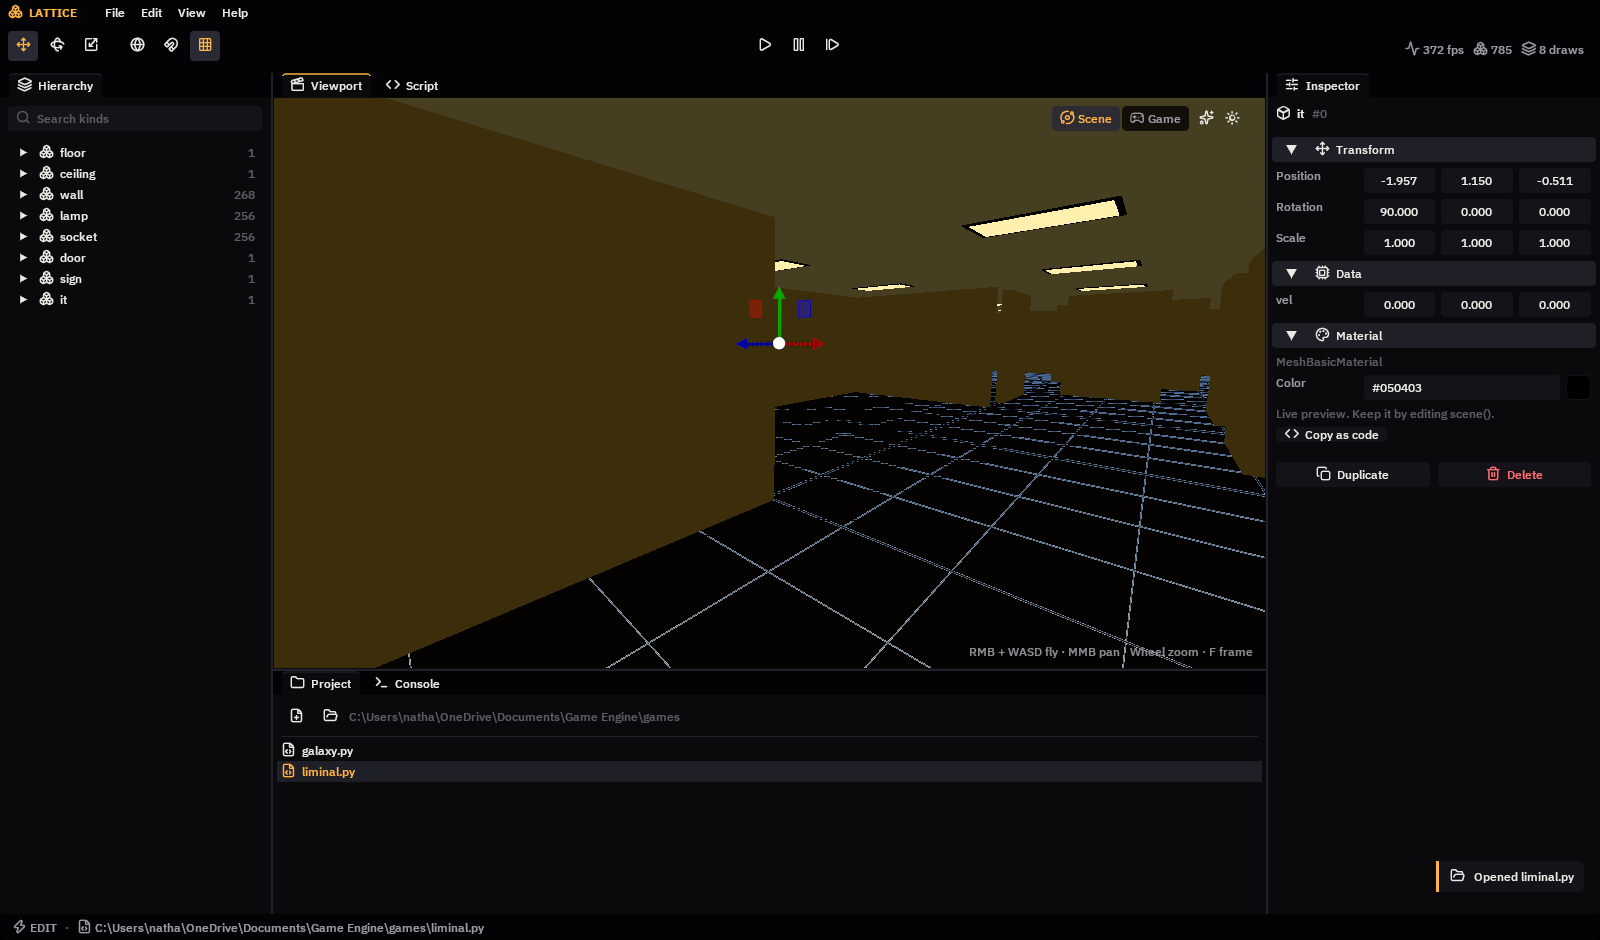
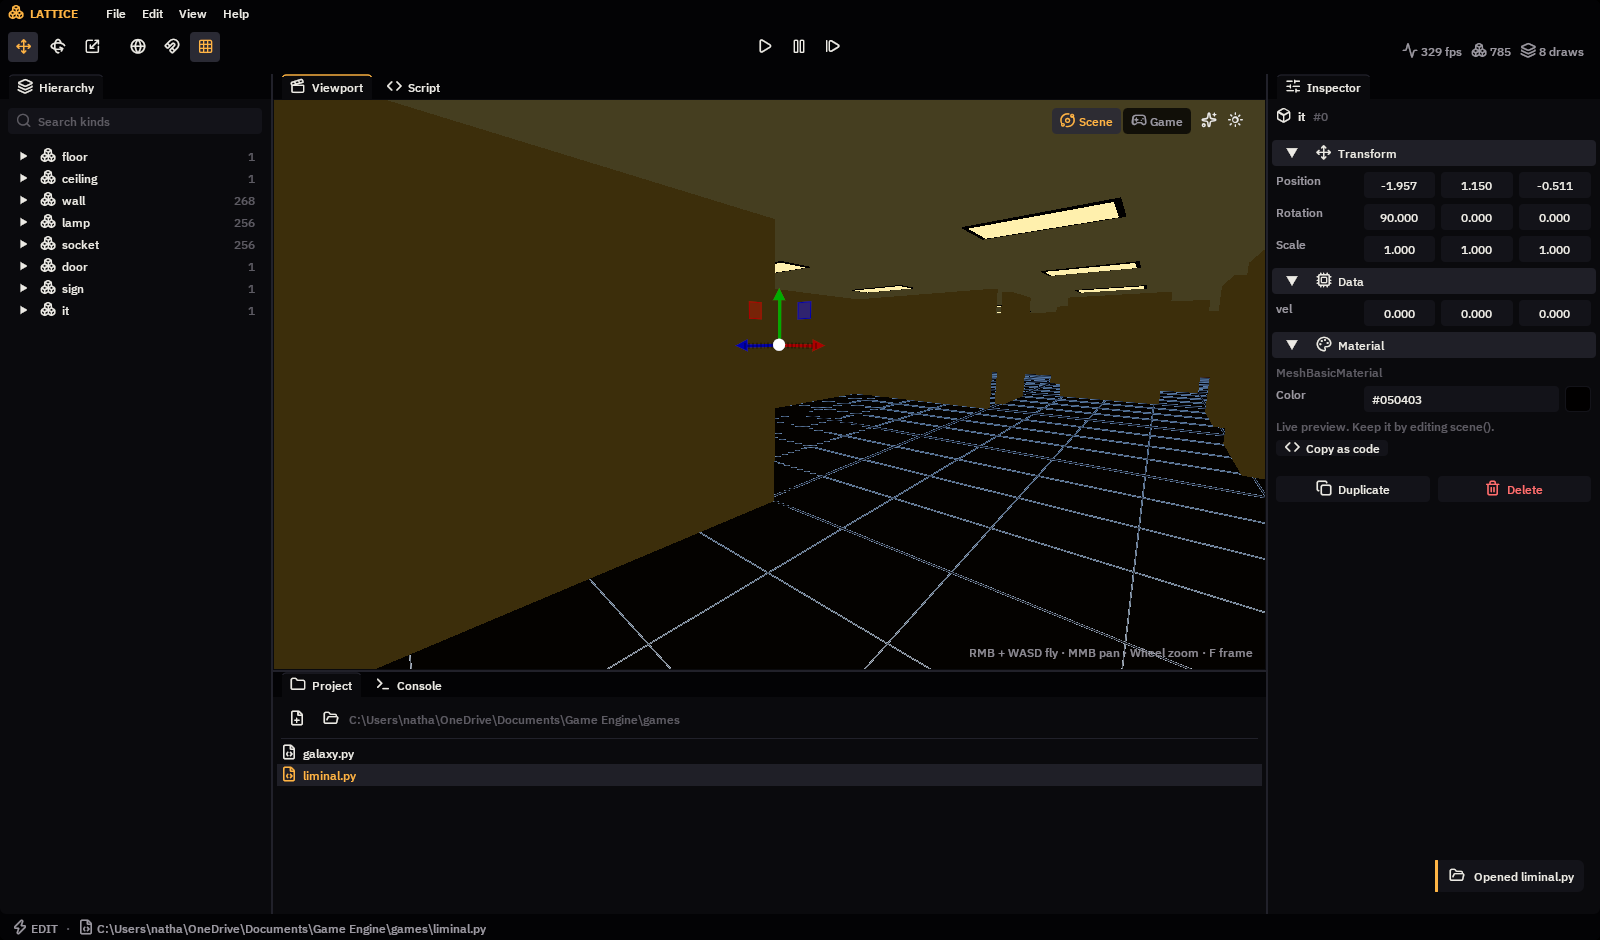
Smoother window resizing: debounce viewport target rebuilds, theme the Win32 title bar and background

diff --git a/src/lattice/editor/__init__.py b/src/lattice/editor/__init__.py
@@ -16,6 +16,7 @@ from imgui_bundle import portable_file_dialogs as pfd
 from wgpu.utils.imgui import ImguiRenderer
 
 from .. import icons as I
+from ..app import style_window
 from ..runtime import Runtime
 from . import theme
 from .theme import Fonts, hex4
@@ -94,6 +95,7 @@ class Editor:
             from rendercanvas.glfw import RenderCanvas
         self.snapshot = snapshot
         self.canvas = RenderCanvas(size=(1600, 940), title="Lattice", update_mode="continuous", max_fps=144)
+        style_window(self.canvas)
         self.gui = ImguiRenderer(gfx.renderers.wgpu.get_shared().device, self.canvas)
         HOME.mkdir(exist_ok=True)
         imgui.get_io().set_ini_filename(str(HOME / "layout.ini"))
@@ -416,10 +418,16 @@ class Editor:
     # ------------------------------------------------------------------ viewport
     LOOK = ("pixel_ratio", "pixel_filter", "ppaa", "effect_passes")
 
-    def ensure_target(self, size):
-        """One render target per view: Game is exactly what players see, Scene is a clean, lit editing view."""
-        size = (max(int(size[0]), 16), max(int(size[1]), 16))
+    def ensure_target(self, size, settle=0.12):
+        """One render target per view: Game is exactly what players see, Scene is a clean, lit editing view.
+
+        While the window is being resized the last frame is stretched; targets are rebuilt once the size settles."""
+        size, now = (max(int(size[0]), 16), max(int(size[1]), 16)), time.perf_counter()
         if size == self.size:
+            return
+        if self.renderer and not self.snapshot and (size != getattr(self, "_pending", None) or now - self._pending_t < settle):
+            if size != getattr(self, "_pending", None):
+                self._pending, self._pending_t = size, now
             return
         old, self.size = self.renderer, size
         self.targets = {v: gfx.Texture(dim=2, size=(*size, 1), format="rgba8unorm") for v in ("scene", "game")}
@@ -463,7 +471,7 @@ class Editor:
             ambient.intensity = game_ambient
             if self.view not in self.texs:
                 self.texs[self.view] = self.gui.backend.register_texture(self.targets[self.view]._wgpu_default_view)
-            imgui.image(self.texs[self.view], imgui.ImVec2(*self.size))
+            imgui.image(self.texs[self.view], imgui.get_content_region_avail())
             self.viewport_hovered = imgui.is_item_hovered()
             self.viewport_focused = self.viewport_hovered or imgui.is_window_focused()
             if scene_view:

diff --git a/src/lattice/app.py b/src/lattice/app.py
@@ -1,11 +1,26 @@
 """Command line: ``lattice`` opens the editor, ``lattice play game.py`` runs a game in a plain window."""
 
 import argparse
+import os
 import time
 
 import pygfx as gfx
 
 from .runtime import Runtime
+
+
+def style_window(canvas, color=0x0D0B0B):
+    """Windows 11: tint the title bar and border to the theme, and paint exposed areas black instead of white."""
+    if os.name != "nt" or not (window := getattr(canvas, "_window", None)):
+        return
+    import ctypes
+
+    import glfw
+
+    hwnd, dwm, c = glfw.get_win32_window(window), ctypes.windll.dwmapi, ctypes.c_int(color)  # COLORREF is 0x00BBGGRR
+    for attribute, value in ((20, ctypes.c_int(1)), (35, c), (34, c)):  # dark mode, caption colour, border colour
+        dwm.DwmSetWindowAttribute(hwnd, attribute, ctypes.byref(value), 4)
+    ctypes.windll.user32.SetClassLongPtrW(hwnd, -10, ctypes.windll.gdi32.GetStockObject(4))  # GCLP_HBRBACKGROUND = black
 
 
 def play(path, snapshot=None, frames=180, size=(1280, 720)):
@@ -14,6 +29,7 @@ def play(path, snapshot=None, frames=180, size=(1280, 720)):
     else:
         from rendercanvas.glfw import RenderCanvas, loop
     canvas = RenderCanvas(size=size, title="lattice · $fps fps", update_mode="continuous", max_fps=240)
+    style_window(canvas, 0)
     rt = Runtime(path, gfx.WgpuRenderer(canvas))
     last = [time.perf_counter()]
 

diff --git a/src/lattice/editor/theme.py b/src/lattice/editor/theme.py
@@ -43,8 +43,8 @@ def apply():
             io.fonts.add_font_from_file_ttf(str(ASSETS / "lucide.ttf"), size, cfg)
         return f
 
-    Fonts.ui = font("IBMPlexSans-Medium.ttf", 15)
-    Fonts.bold = font("IBMPlexSans-SemiBold.ttf", 15)
+    Fonts.ui = font("IBMPlexSans-Medium.ttf", 16)
+    Fonts.bold = font("IBMPlexSans-SemiBold.ttf", 16)
     Fonts.mono = font("IBMPlexMono-Regular.ttf", 14)
     Fonts.title = font("IBMPlexSans-SemiBold.ttf", 44, with_icons=False)
     io.font_default = Fonts.ui
